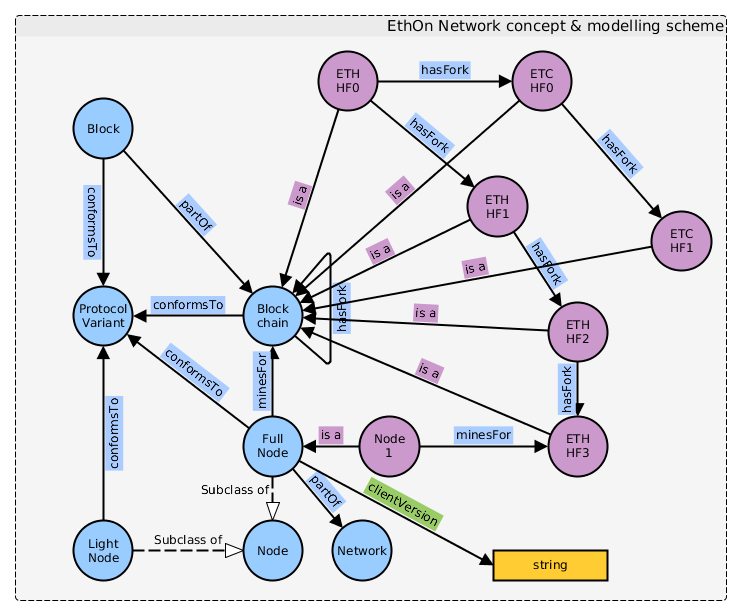
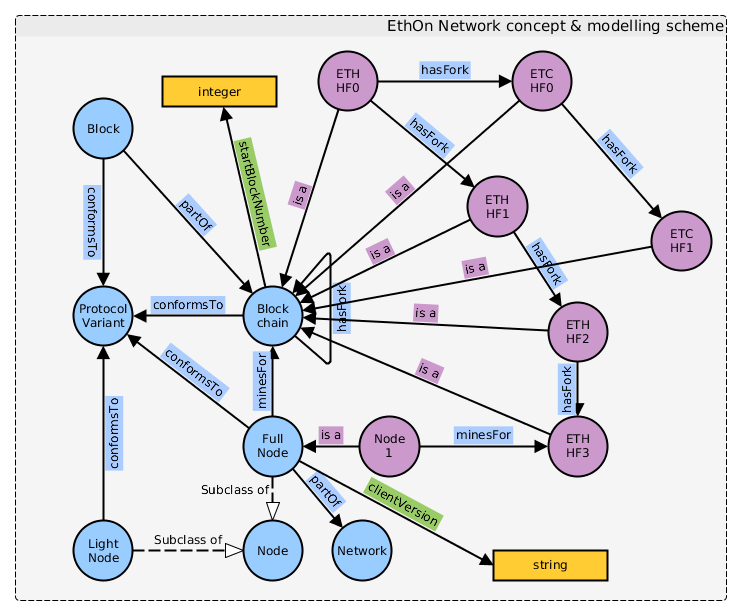
add startBlockNumber #41

Changed region(s): [[0.31, 0.2159, 0.372, 0.4627], [0.217, 0.1234, 0.372, 0.2159]]

diff --git a/EthOn_spec.html b/EthOn_spec.html
@@ -143,7 +143,7 @@
         </div>
         <div class="col-sm-4">
             <!-- Properties tree-->
-            <h3>Properties <span class="badge">96</span></h3>
+            <h3>Properties <span class="badge">97</span></h3>
             <ul>
                     <li><a class="label label-default" href="#prop-dase_rule">DASE_RULE</a></li>
                     <li><a class="label label-default" href="#prop-ethonannotationproperty">EthOnAnnotationProperty</a><ul>
@@ -199,7 +199,8 @@
                     <li><a class="label label-default" href="#prop-txv">txV</a></li>
                     <li><a class="label label-default" href="#prop-value">value</a></li></ul></li>
                     <li><a class="label label-default" href="#prop-networkdataproperty">NetworkDataProperty</a><ul>
-                    <li><a class="label label-default" href="#prop-clientversion">clientVersion</a></li></ul></li>
+                    <li><a class="label label-default" href="#prop-clientversion">clientVersion</a></li>
+                    <li><a class="label label-default" href="#prop-startblocknumber">startBlockNumber</a></li></ul></li>
                     <li><a class="label label-default" href="#prop-statedataproperty">StateDataProperty</a><ul>
                     <li><a class="label label-default" href="#prop-stateroot">stateRoot</a></li></ul></li></ul></li>
                     <li><a class="label label-default" href="#prop-ethonobjectproperty">EthOnObjectProperty</a><ul>
@@ -653,6 +654,7 @@
                     <td class="col-md-2">Properties include</td>
                     <td class="col-md-10">
                         
+                            <a class="label label-default" href="#prop-startblocknumber">startBlockNumber</a> 
                             <a class="label label-default" href="#prop-hasfork">hasFork</a> 
                     </td>
                 </tr>
@@ -4099,7 +4101,7 @@
 
 
     <!-- Datatype Property list-->
-    <h2>Datatype Property descriptions <span class="badge">53</span></h2>
+    <h2>Datatype Property descriptions <span class="badge">54</span></h2>
     
         <h3 id="prop-accountdataproperty">AccountDataProperty</h3>
         <p>Groups all Data Properties that are specific to an Account.</p>
@@ -4335,6 +4337,7 @@
                     <td class="col-md-10">
                         
                             <a class="label label-default" href="#prop-clientversion">clientVersion</a> 
+                            <a class="label label-default" href="#prop-startblocknumber">startBlockNumber</a> 
                     </td>
                 </tr>
             
@@ -5952,6 +5955,55 @@
                     <td class="col-md-10">
                         
                             <a class="label label-primary" href="http://www.w3.org/2001/XMLSchema#hexBinary">http://www.w3.org/2001/XMLSchema#hexBinary</a> 
+                    </td>
+                </tr>
+            
+            
+        </table>
+    
+        <h3 id="prop-startblocknumber">startBlockNumber</h3>
+        <p>The Block number of the first block in a new Blockchain after a hard fork.</p>
+        <table class="table table-striped">
+            
+                <tr>
+                    <td class="col-md-2">Status</td>
+                    <td class="col-md-10 
+        text-danger
+    ">unstable</td>
+                </tr>
+            
+                <tr>
+                    <td class="col-md-2">URI</td>
+                    <td class="col-md-10"><a href="http://ethon.consensys.net/startBlockNumber">http://ethon.consensys.net/startBlockNumber</a></td>
+                </tr>
+            
+                <tr>
+                    <td class="col-md-2">Suggested string</td>
+                    <td class="col-md-10">startBlockNumber</td>
+                </tr>
+            
+                <tr>
+                    <td class="col-md-2">Superclasses</td>
+                    <td class="col-md-10">
+                        
+                            <a class="label label-default" href="#prop-networkdataproperty">NetworkDataProperty</a> 
+                    </td>
+                </tr>
+            
+            
+                <tr>
+                    <td class="col-md-2">Implies being a</td>
+                    <td class="col-md-10">
+                        
+                            <a class="label label-primary" href="#class-blockchain">Blockchain</a> 
+                    </td>
+                </tr>
+            
+                <tr>
+                    <td class="col-md-2">Every value is a</td>
+                    <td class="col-md-10">
+                        
+                            <a class="label label-primary" href="http://www.w3.org/2001/XMLSchema#integer">http://www.w3.org/2001/XMLSchema#integer</a> 
                     </td>
                 </tr>
             

diff --git a/EthOn_glossary.md b/EthOn_glossary.md
@@ -306,6 +306,9 @@ A Merkle Patricia tree that encodes the storage contents of an Account. It is no
 ### Storage root
 [`ethon:storageRoot`](http://ethon.consensys.net/storageRoot)   
 A 256-bit hash of the root node of a Merkle Patricia tree that encodes the storage contents of the Account (a mapping between 265-bit integer values), encoded into the trie as a mapping from the Keccak 256-bit hash of the 256-bit integer keys to the RLP-encoded 256-bit integer values.
+### start Block number
+[`ethon:startBlockNumber`](http://ethon.consensys.net/startBlockNumber)   
+The Block number of the first block in a new Blockchain after a hard fork.
 ## T
 ### Transaction
 [`ethon:Tx`](http://ethon.consensys.net/Tx)   
